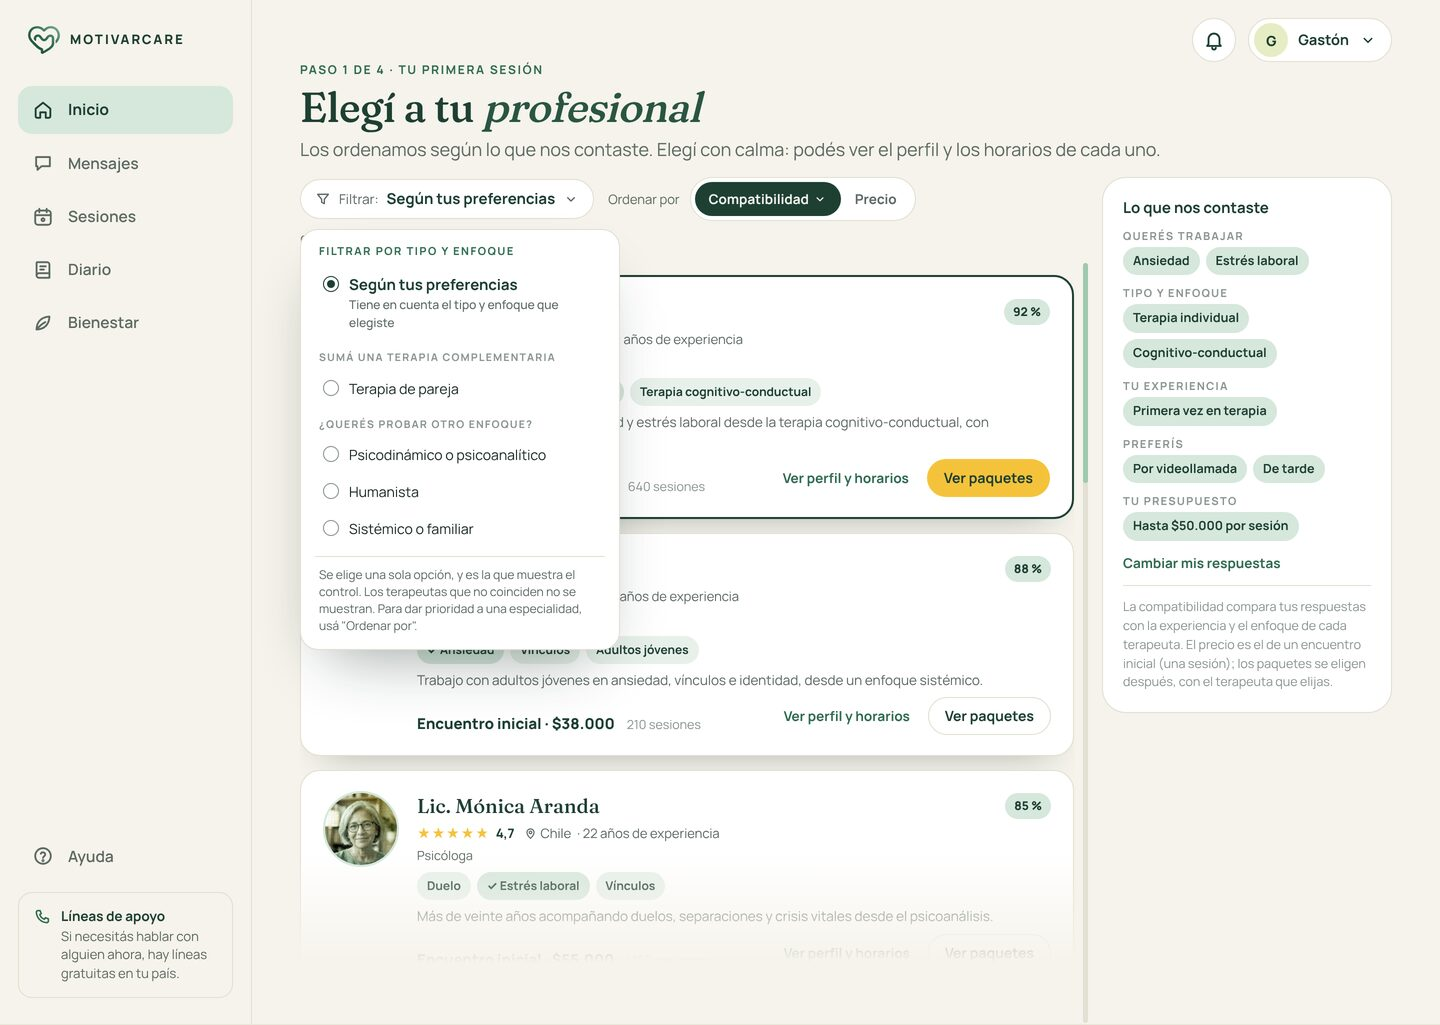
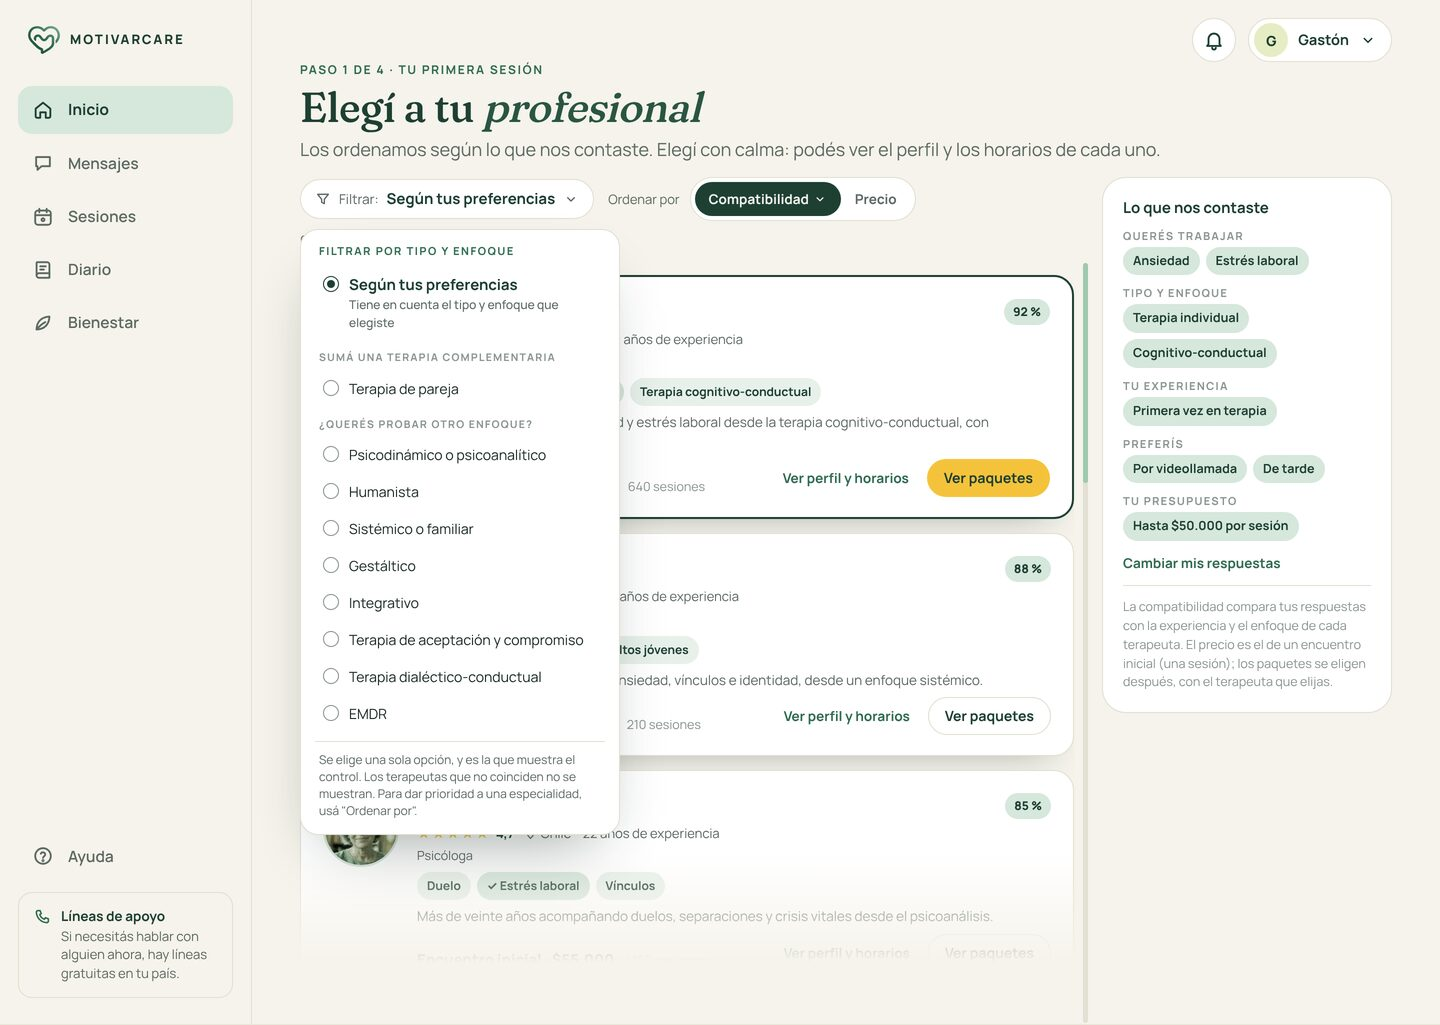
Ronda #2: menús de filtro y orden a pantalla completa en el teléfono
Claude-Session: https://claude.ai/code/session_01WU1DRuLLvKJwMVuiPWLics

Changed region(s): [[0.2188, 0.5307, 0.4375, 0.8429]]

diff --git a/web/public/app-usuario/ronda-2.html b/web/public/app-usuario/ronda-2.html
@@ -844,6 +844,16 @@ ul.lista-simple { padding: 0; }
 .limpiar.off { color: var(--tinta-tenue); opacity: .55; }
 .limpiar.solo-ico { width: 34px; height: 34px; justify-content: center; border-radius: 50%; border: 1px solid var(--linea); background: var(--superficie); flex: none; }
 .filtro-wrap { position: relative; display: inline-flex; }
+.panel-pleno { position: absolute; inset: 0; z-index: 10; background: var(--superficie); display: flex; flex-direction: column; }
+.pp-cab { display: flex; align-items: center; justify-content: space-between; padding: 10px 20px 14px; border-bottom: 1px solid var(--linea); color: var(--bosque); font-size: 18px; flex: none; }
+.pp-cerrar { width: 40px; height: 40px; border-radius: 50%; display: grid; place-items: center; background: var(--crema); color: var(--bosque); }
+.pp-cuerpo { flex: 1; overflow: hidden; padding: 10px 14px 0; display: flex; flex-direction: column; gap: 2px; position: relative; }
+.pp-cuerpo .op-esp { padding: 11px 10px; font-size: 15px; }
+.pp-cuerpo .sep-esp { margin: 14px 10px 4px; }
+.pp-cuerpo .nota-esp { margin: 10px 10px 0; }
+.pp-scroll { position: absolute; right: 4px; top: 120px; bottom: 100px; width: 4px; }
+.pp-scroll i { display: block; width: 4px; height: 38%; margin-top: 30%; border-radius: 99px; background: var(--salvia-fuerte); }
+.pp-pie { padding: 14px 20px 26px; border-top: 1px solid var(--linea); background: var(--superficie); flex: none; box-shadow: 0 -8px 20px rgba(0,0,0,.05); }
 .cuenta-lista { font-size: 13px; color: var(--tinta-suave); margin: -4px 0 12px; }
 .tel .cuenta-lista { margin: -2px 0 0; font-size: 12.5px; }
 .mis-resp { display: inline-flex; align-items: center; gap: 6px; height: 36px; padding: 0 12px; border-radius: 99px; border: 1px solid var(--linea); background: var(--superficie); font-size: 12.5px; font-weight: 700; color: var(--bosque); white-space: nowrap; text-decoration: none; flex: none; }
@@ -1682,7 +1692,7 @@ ul.lista-simple { padding: 0; }
         <div>
           <div class="el-barra r2">
             
-            <span class="filtro-wrap"><span class="filtro"><svg viewBox="0 0 24 24" class="ico chico"><path d="M4 5h16l-6 7.5V19l-4-2v-4.5z"/></svg>Filtrar: <b>Según tus preferencias</b><svg class="ico chico"><use href="#i-abajo"/></svg></span><div class="menu-esp menu-filtro"><span class="menu-tit">Filtrar por tipo y enfoque</span><span class="op-esp elegida-sutil"><i class="radio"></i><span><b>Según tus preferencias</b><small>Tiene en cuenta el tipo y enfoque que elegiste</small></span></span><span class="sep-esp">Sumá una terapia complementaria</span><span class="op-esp"><i class="radio"></i>Terapia de pareja</span><span class="sep-esp">¿Querés probar otro enfoque?</span><span class="op-esp"><i class="radio"></i>Psicodinámico o psicoanalítico</span><span class="op-esp"><i class="radio"></i>Humanista</span><span class="op-esp"><i class="radio"></i>Sistémico o familiar</span><span class="nota-esp">Se elige una sola opción, y es la que muestra el control. Los terapeutas que no coinciden no se muestran. Para dar prioridad a una especialidad, usá "Ordenar por".</span></div></span>
+            <span class="filtro-wrap"><span class="filtro"><svg viewBox="0 0 24 24" class="ico chico"><path d="M4 5h16l-6 7.5V19l-4-2v-4.5z"/></svg>Filtrar: <b>Según tus preferencias</b><svg class="ico chico"><use href="#i-abajo"/></svg></span><div class="menu-esp menu-filtro"><span class="menu-tit">Filtrar por tipo y enfoque</span><span class="op-esp elegida-sutil"><i class="radio"></i><span><b>Según tus preferencias</b><small>Tiene en cuenta el tipo y enfoque que elegiste</small></span></span><span class="sep-esp">Sumá una terapia complementaria</span><span class="op-esp"><i class="radio"></i>Terapia de pareja</span><span class="sep-esp">¿Querés probar otro enfoque?</span><span class="op-esp"><i class="radio"></i>Psicodinámico o psicoanalítico</span><span class="op-esp"><i class="radio"></i>Humanista</span><span class="op-esp"><i class="radio"></i>Sistémico o familiar</span><span class="op-esp"><i class="radio"></i>Gestáltico</span><span class="op-esp"><i class="radio"></i>Integrativo</span><span class="op-esp"><i class="radio"></i>Terapia de aceptación y compromiso</span><span class="op-esp"><i class="radio"></i>Terapia dialéctico-conductual</span><span class="op-esp"><i class="radio"></i>EMDR</span><span class="nota-esp">Se elige una sola opción, y es la que muestra el control. Los terapeutas que no coinciden no se muestran. Para dar prioridad a una especialidad, usá "Ordenar por".</span></div></span>
             <span class="orden-wrap"><span class="et-orden">Ordenar por</span><span class="el-orden"><span class="on">Compatibilidad<svg class="ico chico cl"><use href="#i-abajo"/></svg></span><span>Precio</span></span>
             </span>
           </div>
@@ -1755,7 +1765,7 @@ ul.lista-simple { padding: 0; }
 </section>
 
 <section class="lamina">
-<h2>5 · Elegí a tu profesional en el teléfono · la primera vez</h2>
+<h2>5 · Elegí a tu profesional en el teléfono · la primera vez, y el filtro abierto a pantalla completa</h2>
 <div class="fila-tel">
 <div>
 <div class="marco tel" id="r2-5-telefono">
@@ -1810,6 +1820,11 @@ ul.lista-simple { padding: 0; }
     <a><span class="pastilla" style="position:relative"><svg class="ico"><use href="#i-diario"/></svg></span>Diario</a>
     <a><span class="pastilla" style="position:relative"><svg class="ico"><use href="#i-bienestar"/></svg></span>Bienestar</a>
   </nav>
+</div>
+</div>
+<div>
+<div class="marco tel" id="r2-5-filtro-telefono">
+  <div class="panel-pleno"><div class="estado-tel"><span>10:27</span><span class="senal"><i style="height:5px"></i><i style="height:8px"></i><i style="height:11px"></i><i style="height:14px"></i></span></div><div class="pp-cab"><b>Filtrar por tipo y enfoque</b><span class="pp-cerrar"><svg class="ico"><use href="#i-cerrar"/></svg></span></div><div class="pp-cuerpo"><span class="op-esp elegida-sutil"><i class="radio"></i><span><b>Según tus preferencias</b><small>Tiene en cuenta el tipo y enfoque que elegiste</small></span></span><span class="sep-esp">Sumá una terapia complementaria</span><span class="op-esp"><i class="radio"></i>Terapia de pareja</span><span class="sep-esp">¿Querés probar otro enfoque?</span><span class="op-esp"><i class="radio"></i>Psicodinámico o psicoanalítico</span><span class="op-esp"><i class="radio"></i>Humanista</span><span class="op-esp"><i class="radio"></i>Sistémico o familiar</span><span class="op-esp"><i class="radio"></i>Gestáltico</span><span class="op-esp"><i class="radio"></i>Integrativo</span><span class="op-esp"><i class="radio"></i>Terapia de aceptación y compromiso</span><span class="op-esp"><i class="radio"></i>Terapia dialéctico-conductual</span><span class="op-esp"><i class="radio"></i>EMDR</span><span class="nota-esp">Se elige una sola opción, y es la que muestra el control. Los terapeutas que no coinciden no se muestran. Para dar prioridad a una especialidad, usá "Ordenar por".</span></div><span class="pp-scroll"><i></i></span><div class="pp-pie"><a class="boton bosque ancho">Ver terapeutas</a></div></div>
 </div>
 </div>
 </div>
@@ -2136,7 +2151,7 @@ ul.lista-simple { padding: 0; }
 </section>
 
 <section class="lamina">
-<h2>6 · Elegí a tu profesional en el teléfono · desde "Para complementar tu proceso", con el orden abierto</h2>
+<h2>6 · Elegí a tu profesional en el teléfono · desde "Para complementar tu proceso", con el orden abierto a pantalla completa</h2>
 <div class="fila-tel">
 <div>
 <div class="marco tel" id="r2-6-complementar-telefono">
@@ -2181,7 +2196,7 @@ ul.lista-simple { padding: 0; }
   </div>
 </article></div>
   </div>
-  <div class="velo"></div><div class="hoja-buscar"><div class="hoja-cab"><b>Ordenar por compatibilidad</b><svg class="ico"><use href="#i-cerrar"/></svg></div><span class="op-esp"><i class="radio"></i><span><b>Según todas tus respuestas</b><small>Tiene en cuenta todo lo que nos contaste</small></span></span><span class="sep-esp">Dando prioridad a una especialidad · de tus respuestas</span><span class="op-esp"><i class="radio"></i><b>Ansiedad</b></span><span class="op-esp"><i class="radio"></i><b>Estrés laboral</b></span><span class="sep-esp">Otras especialidades</span><span class="op-esp"><i class="radio"></i>Autoestima</span><span class="op-esp"><i class="radio"></i>Depresión</span><span class="op-esp"><i class="radio"></i>Duelo</span><span class="op-esp on"><i class="radio"></i>Mindfulness y relajación</span><span class="op-esp"><i class="radio"></i>Sueño y descanso</span><span class="op-esp"><i class="radio"></i>Vínculos y pareja</span><span class="nota-esp">No es un filtro: los terapeutas de esa especialidad aparecen primero y los demás siguen en la lista. Al ordenar por precio, no se tiene en cuenta.</span><div class="hoja-pie"><a class="boton bosque ancho">Listo</a></div></div><nav class="nav-tel">
+  <div class="panel-pleno"><div class="estado-tel"><span>10:27</span><span class="senal"><i style="height:5px"></i><i style="height:8px"></i><i style="height:11px"></i><i style="height:14px"></i></span></div><div class="pp-cab"><b>Ordenar por compatibilidad</b><span class="pp-cerrar"><svg class="ico"><use href="#i-cerrar"/></svg></span></div><div class="pp-cuerpo"><span class="op-esp"><i class="radio"></i><span><b>Según todas tus respuestas</b><small>Tiene en cuenta todo lo que nos contaste</small></span></span><span class="sep-esp">Dando prioridad a una especialidad · de tus respuestas</span><span class="op-esp"><i class="radio"></i><b>Ansiedad</b></span><span class="op-esp"><i class="radio"></i><b>Estrés laboral</b></span><span class="sep-esp">Otras especialidades</span><span class="op-esp"><i class="radio"></i>Adicciones</span><span class="op-esp"><i class="radio"></i>Alimentación</span><span class="op-esp"><i class="radio"></i>Autoestima</span><span class="op-esp"><i class="radio"></i>Crianza</span><span class="op-esp"><i class="radio"></i>Depresión</span><span class="op-esp"><i class="radio"></i>Duelo</span><span class="op-esp"><i class="radio"></i>Identidad y género</span><span class="op-esp on"><i class="radio"></i>Mindfulness y relajación</span><span class="op-esp"><i class="radio"></i>Sueño y descanso</span><span class="op-esp"><i class="radio"></i>Trauma</span><span class="op-esp"><i class="radio"></i>Vínculos y pareja</span><span class="nota-esp">No es un filtro: los terapeutas de esa especialidad aparecen primero y los demás siguen en la lista. Al ordenar por precio, no se tiene en cuenta.</span></div><span class="pp-scroll"><i></i></span><div class="pp-pie"><a class="boton bosque ancho">Listo</a></div></div><nav class="nav-tel">
     <a class="activo"><span class="pastilla" style="position:relative"><svg class="ico"><use href="#i-inicio"/></svg></span>Inicio</a>
     <a><span class="pastilla" style="position:relative"><svg class="ico"><use href="#i-chat"/></svg></span>Mensajes</a>
     <a><span class="pastilla" style="position:relative"><svg class="ico"><use href="#i-sesiones"/></svg></span>Sesiones</a>

diff --git a/06-app-usuario/historial/ronda-2.md b/06-app-usuario/historial/ronda-2.md
@@ -122,7 +122,7 @@ Cada mockup se hace en escritorio (1440 × 1024) y en teléfono (390 de ancho). 
 </article>
 <article class="hecha">
   <figure><img src="/img/app-usuario/ronda-2/06-elegir-desde-complementar-escritorio.jpg" alt="Elegí a tu profesional en escritorio, al que se llega desde Para complementar tu proceso con Mindfulness y relajación elegida" loading="lazy"><figcaption>Escritorio · 1440 × 1024</figcaption></figure>
-  <figure class="tel"><img src="/img/app-usuario/ronda-2/06-elegir-desde-complementar-telefono.jpg" alt="Elegí a tu profesional en el teléfono, con el menú de orden abierto como hoja" loading="lazy"><figcaption>Teléfono · 390 × 844</figcaption></figure>
+  <figure class="tel"><img src="/img/app-usuario/ronda-2/06-elegir-desde-complementar-telefono.jpg" alt="Elegí a tu profesional en el teléfono, con el menú de orden abierto a pantalla completa" loading="lazy"><figcaption>Teléfono · 390 × 844</figcaption></figure>
   <div class="texto">
     <span class="chip-estado">Mockup 6 · desde el cross-selling</span>
     <h3>Elegí a tu profesional · desde "Para complementar tu proceso"</h3>
@@ -131,7 +131,7 @@ Cada mockup se hace en escritorio (1440 × 1024) y en teléfono (390 de ancho). 
       <li>"Volver al inicio", "Para complementar tu proceso" y el título "Sumá un terapeuta". Valeria no aparece en la lista.</li>
       <li>"Ordenar por" dice "Mindfulness y relajación".</li>
       <li>A la derecha, "Lo que buscás": lo elegido, tu terapeuta actual y tus respuestas.</li>
-      <li>En el teléfono, el menú de orden se abre como hoja desde abajo, con "Listo".</li>
+      <li>En el teléfono, el menú de orden ocupa toda la pantalla, se recorre con scroll y se cierra con "Listo".</li>
     </ul>
     <a class="boton-ver" href="/app-usuario/ronda-2.html#r2-6-complementar-escritorio">Ver en tamaño real →</a>
   </div>
@@ -292,6 +292,21 @@ El Buscador de profesionales puede abrirse desde el Cross-selling de profesional
 - **Sin el filtro por rubro.** Se saca "Mostrar: Terapeutas": por ahora no va a haber muchos profesionales de otros rubros y ocupaba un lugar innecesario. Así, "Filtrar" y "Ordenar por" entran en una sola fila en el escritorio.
 - **Sin "Limpiar"**: se probó al lado de los controles, pero no había espacio. Para volver al estado inicial, cada menú tiene arriba su opción por defecto ("Según tus preferencias" y "Según todas tus respuestas").
 - **La cantidad de terapeutas** pasa debajo de los controles, justo arriba de las tarjetas.
+- **En el teléfono, los menús a pantalla completa.** Los menús de "Filtrar" y "Ordenar por" pueden tener muchas opciones que no se pueden anticipar (especialidades, enfoques), así que en el teléfono no flotan: ocupan todo el viewport y se recorren con scroll. Arriba, el título y la cruz para cerrar; abajo, un botón fijo en verde bosque ("Ver terapeutas" en el filtro, "Listo" en el orden). En el escritorio siguen siendo menús desplegables. Para mostrarlo, las listas suman más enfoques (gestáltico, integrativo, de aceptación y compromiso, dialéctico-conductual, EMDR) y, en el teléfono, más especialidades.
+
+<div class="hechas">
+<article class="hecha">
+  <figure class="tel"><img src="/img/app-usuario/ronda-2/05-elegir-filtro-pantalla-completa-telefono.jpg" alt="Menú Filtrar por tipo y enfoque a pantalla completa en el teléfono" loading="lazy"><figcaption>Filtrar · 390 × 844</figcaption></figure>
+  <figure class="tel"><img src="/img/app-usuario/ronda-2/06-elegir-desde-complementar-telefono.jpg" alt="Menú Ordenar por compatibilidad a pantalla completa en el teléfono" loading="lazy"><figcaption>Ordenar por · 390 × 844</figcaption></figure>
+  <div class="texto">
+    <span class="chip-estado">Mockups 5 y 6 · teléfono</span>
+    <h3>Filtrar y Ordenar por, a pantalla completa</h3>
+    <p>El filtro, la primera vez (mockup 5), y el orden, desde "Para complementar tu proceso" con "Mindfulness y relajación" elegida (mockup 6).</p>
+    <a class="boton-ver" href="/app-usuario/ronda-2.html#r2-5-filtro-telefono">Ver en tamaño real →</a>
+  </div>
+</article>
+</div>
+
 - **En el teléfono, sin la fila de pills** de "Lo que nos contaste": no entraban todas y ocupaban lugar. Al lado del filtro va el botón "**Tus respuestas**" (con un lápiz), que abre el resumen y permite cambiarlas. Debajo, "Ordenar por" y la cantidad de terapeutas.
 
 ## 7 · Contratación: elegí tu paquete
@@ -337,7 +352,7 @@ Una de las decisiones de esta ronda es trabajar con **pocos componentes, robusto
 | [![Cabecera guía](/img/app-usuario/ronda-2/componentes/cabecera-guia.jpg)](/img/app-usuario/ronda-2/componentes/cabecera-guia.jpg) | **Cabecera guía** | Encabezar el Inicio con una tarjeta verde salvia que dice lo que la persona tiene que hacer ahora, con un único botón amarillo. Responde siempre "¿qué tengo que hacer ahora?". | Inicio con profesional (mockups 1, 2 y 4). | Sesión por empezar ("Entrar a la sesión", "Reprogramar"); sin turnos (próximos horarios libres y "Reservar sesión"). |
 | [![Primeros pasos](/img/app-usuario/ronda-2/componentes/primeros-pasos.jpg)](/img/app-usuario/ronda-2/componentes/primeros-pasos.jpg) | **Primeros pasos** | Guiar al usuario nuevo hacia su primera sesión: una tarjeta verde bosque con los cuatro pasos (el actual en amarillo, los pendientes punteados), "Ver terapeutas" y la aclaración de precios. | Inicio sin profesional (mockup 3). | — |
 | [![Ficha del profesional](/img/app-usuario/ronda-2/componentes/ficha-profesional.jpg)](/img/app-usuario/ronda-2/componentes/ficha-profesional.jpg) | **Ficha del profesional** | Decir siempre con quién se hace, se paga o se reserva: foto, nombre, calificación y país, especialidades, credenciales y acciones. En esta fase todos son terapeutas (en pantalla dice "Tu terapeuta"). | Inicio (mockups 1, 2 y 4), Buscador de profesionales (mockups 5 y 6), contratación (mockup 7) y reserva (mockup 8). | Completa (con el mensaje sin leer y las sesiones disponibles, con "Comprar más sesiones" cuando ya se usó la mitad del paquete, en verde bosque si queda 1 o ninguna; abajo, separados por una línea, "Escribile" y "Contanos cómo te va", de contorno con un corazón verde bosque; "Ver perfil" arriba a la derecha); con **selector de profesionales** (pastillas con avisos de sesiones y mensajes, el principal primero); resumida (dentro del Resumen de contratación); compacta (teléfono); **resultado de búsqueda** (en el Buscador de profesionales, con las especialidades que coinciden, el precio del encuentro inicial, "Ver perfil y horarios" y "Ver paquetes"). |
-| [![Buscador de profesionales](/img/app-usuario/ronda-2/componentes/buscador-profesionales.jpg)](/img/app-usuario/ronda-2/componentes/buscador-profesionales.jpg) | **Buscador de profesionales** | Encontrar y elegir un profesional: la lista de fichas (resultados de búsqueda), el orden por compatibilidad (con prioridad a una especialidad) o por precio, el filtro por tipo de terapia y enfoque ("Según tus preferencias" por defecto) y el panel "Lo que nos contaste", con "Cambiar mis respuestas". | Elección de profesional (mockups 5 y 6), desde "Ver terapeutas" (mockup 3) o desde el Cross-selling de profesionales, con los filtros cargados. | Por defecto ("Compatibilidad", según todas tus respuestas) o con una especialidad elegida (el control dice su nombre); abierto desde el cross-selling ("Sumá un terapeuta", sin el terapeuta actual, con "Lo que buscás"); menús desplegables (escritorio) u hoja desde abajo (teléfono); escritorio (panel a la derecha) y teléfono ("Tus respuestas" al lado del filtro). |
+| [![Buscador de profesionales](/img/app-usuario/ronda-2/componentes/buscador-profesionales.jpg)](/img/app-usuario/ronda-2/componentes/buscador-profesionales.jpg) | **Buscador de profesionales** | Encontrar y elegir un profesional: la lista de fichas (resultados de búsqueda), el orden por compatibilidad (con prioridad a una especialidad) o por precio, el filtro por tipo de terapia y enfoque ("Según tus preferencias" por defecto) y el panel "Lo que nos contaste", con "Cambiar mis respuestas". | Elección de profesional (mockups 5 y 6), desde "Ver terapeutas" (mockup 3) o desde el Cross-selling de profesionales, con los filtros cargados. | Por defecto ("Compatibilidad", según todas tus respuestas) o con una especialidad elegida (el control dice su nombre); abierto desde el cross-selling ("Sumá un terapeuta", sin el terapeuta actual, con "Lo que buscás"); menús desplegables (escritorio) o a pantalla completa (teléfono); escritorio (panel a la derecha) y teléfono ("Tus respuestas" al lado del filtro). |
 | [![Selector de paquetes](/img/app-usuario/ronda-2/componentes/selector-paquetes.jpg)](/img/app-usuario/ronda-2/componentes/selector-paquetes.jpg) | **Selector de paquetes** | Elegir qué contratar con un profesional: el encuentro inicial o un paquete, con su precio, su ahorro y el precio por sesión, y la opción de usar un código de descuento. | Contratación (mockup 7), desde "Ver paquetes" o "Comprar más sesiones". | Primera vez con ese profesional (el encuentro inicial recomendado y elegido por defecto) o ya con sesiones previas (los paquetes primero). |
 | [![Resumen de contratación](/img/app-usuario/ronda-2/componentes/resumen-contratacion.jpg)](/img/app-usuario/ronda-2/componentes/resumen-contratacion.jpg) | **Resumen de contratación** | Responder, junto a la acción, con quién, qué y cuánto: contiene la Ficha del profesional (variante resumida), las aclaraciones del servicio (videollamada de 50 minutos y reprogramación sin costo hasta 24 h antes), el desglose y el total, y el botón amarillo con su aclaración. | Contratación (mockup 7) y reserva (mockup 8). | **Contratación** (desglose, total y "Continuar al pago", con "Es el monto exacto que vas a ver en el pago"); **reserva** ("Tu sesión" con el día y la hora elegidos, y "Reservar sesión", "Reservar y proceder al pago" o "Reprogramar sesión"); columna derecha (escritorio) o barra fija (teléfono). |
 | [![Agenda semanal resumida](/img/app-usuario/ronda-2/componentes/agenda-semanal.jpg)](/img/app-usuario/ronda-2/componentes/agenda-semanal.jpg) | **Agenda semanal resumida** | Mostrar de un vistazo la semana: sesiones, horarios libres, ejercicios y diario, con "Ver sesiones" para ir a la página de Sesiones. | Inicio con profesional (mockups 1, 2 y 4). | Un profesional o varios (cada uno con su color); con sesiones o con horarios libres punteados; escritorio (nombre y horario en cada día) y teléfono (foto o punto). |
